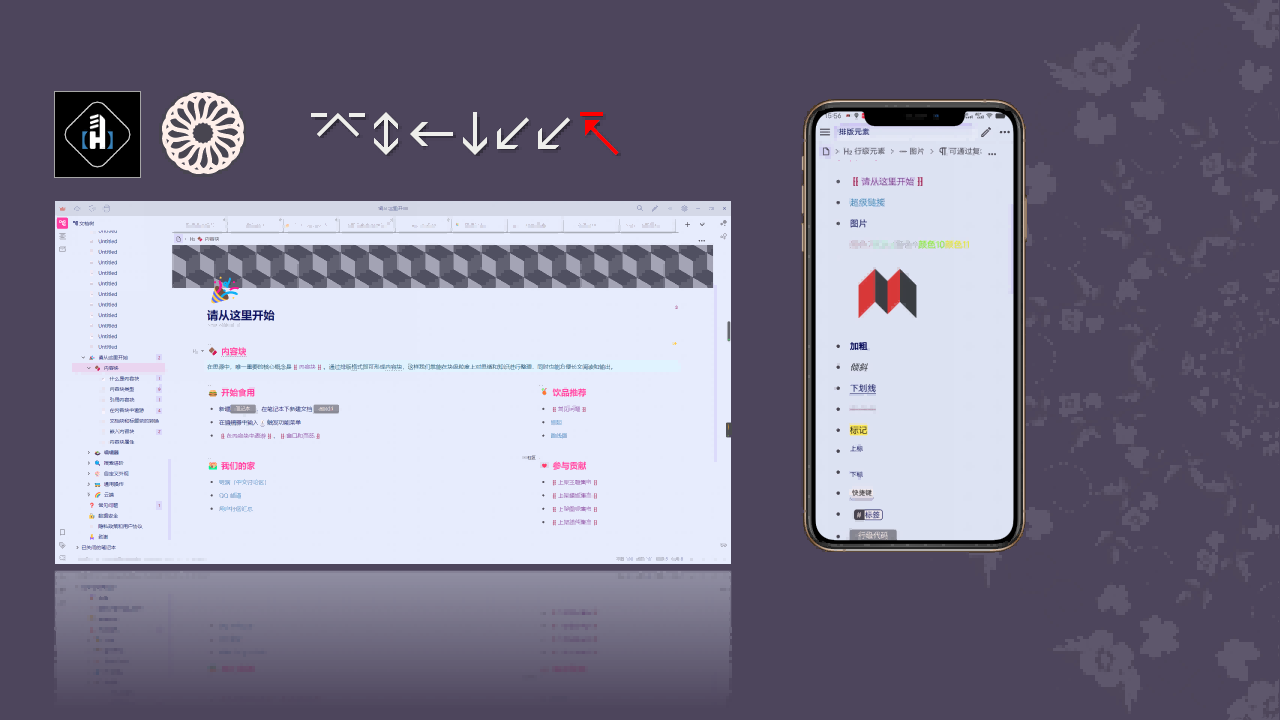
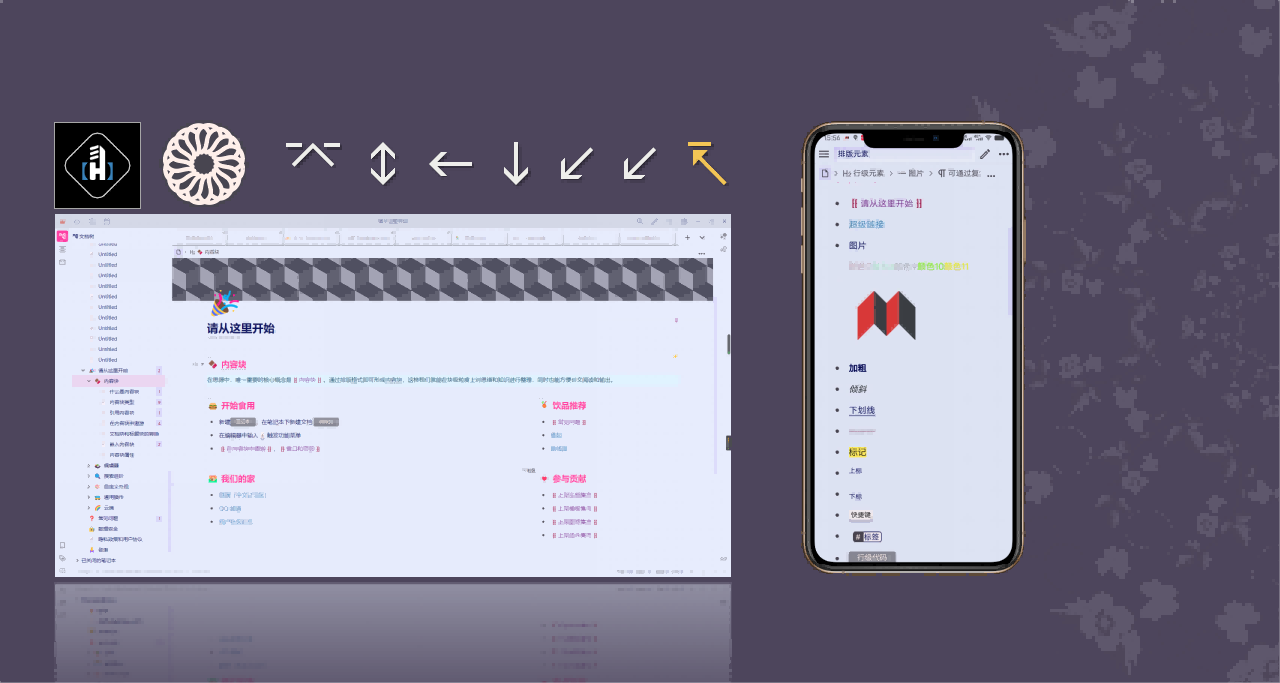
https://github.com/Hi-Windom/winsay/issues/52

diff --git a/style/MI-TabBar.css b/style/MI-TabBar.css
@@ -1,46 +1,21 @@
-/* --------------------------------------------------标签页 Tab--------------------------------------------- */
 /* 标签页底部背景颜色,标签页数量较少时可以看到，颜色和标签页颜色保持一致 */
 .layout-tab-bar.fn__flex,
 ul.fn__flex.layout-tab-bar {
     background-color: var(--SCC-Gray-HellisePotter);
 }
 
-
 /* 标签页鼠标悬浮时背景颜色 */
 .layout-tab-bar .item:not(.item--readonly):hover {
     background-color: var(--SCC-Blue-Windom_2-lighter);
-    padding-top: 4px;
 }
 
-.layout-tab-bar .item:not(.item--readonly) {
-    position: relative;
-    background-color: var(--SCC-Gray-HellisePotter);
-    flex: 1;
-    min-width: 1em;
-    border-radius: 0px !important;
-    box-shadow: none;
-    padding-top: 4px;
-    border-bottom: 3px solid transparent;
-}
-
-.layout-tab-bar li.item.item--readonly {
-    padding-top: 4px;
-    border-bottom: 3px solid transparent;
-}
-
-.item--readonly {
-    background-color: var(--SCC-Gray-HellisePotter);
-}
-
-.item--readonly:hover {
-    background-color: var(--SCC-Blue-Windom_2-lighter);
-}
 
 
 /* 标签页中文字的相关设置 */
 .layout-tab-bar .item .item__text {
     width: auto;
-    min-width: 5.8em;
+    min-width: 3em;
+    margin-right: 13px; /* 预留位置给钉住图标 */
     overflow: hidden !important;
     text-overflow: ellipsis !important;
     white-space: nowrap !important;
@@ -99,19 +74,23 @@ ul.layout-tab-bar li [title="新建文档"] svg:hover, ul.layout-tab-bar li [tit
 /* 非当前页签样式 */
 .layout-tab-bar li.item:not(:last-child).item:not(.item--focus), .layout-tab-bar li.item:last-child:not(.item--focus):not(.item--readonly) {
     box-shadow: rgba(0, 0, 0, 0.4) 0px 2px 4px, rgba(0, 0, 0, 0.3) 0px 7px 13px -3px, rgba(0, 0, 0, 0.2) 0px -3px 0px inset !important;
-    border-bottom: 3px hidden transparent !important;
-    max-width: 580px !important;
-    min-width: 158px !important;
+    border-bottom: 1px ridge transparent !important;
+    max-width: 186px !important;
+    min-width: 58px !important;
     transition-duration: 1.58s;
     font-weight: 520 !important;
 }
 /* 设置当前标签页样式 */
 .layout-tab-bar li.item--focus {
     box-shadow: rgba(0, 0, 0, 0.4) 0px 2px 4px, rgba(0, 0, 0, 0.3) 0px 3px 3px -3px, rgba(0, 0, 0, 0.2) 0px -3px 0px inset !important;
-    border-bottom: 3px ridge var(--b3-theme-primary) !important;
+    border-bottom: 1px ridge var(--b3-theme-primary) !important;
     max-width: 666px !important;
-    min-width: 186px !important;
+    min-width: 58px !important;
     transition-duration: 1.62s;
+}
+/* 钉住标签页优化排版 */
+li.item.item--pin {
+    margin-right: 5.8px !important;
 }
 
 /* 设置当前标签页文字样式 */
@@ -144,11 +123,13 @@ li.item.item--pin.item--focus:after {
     top: 0px;
     width: 12px;
     height: 12px;
+    background-color: transparent !important;
 }
 
-
+/* 标签页内文档名文本样式 */
 .layout-tab-bar .item--pin .item__text {
     display: block !important;
+    max-width: 666px !important;
 }
 
 /* 标签页上面的emoji */

diff --git a/README.md b/README.md
@@ -15,7 +15,9 @@ Windows 端效果
 
 ### 轻量化简洁风绛亽特色思源笔记主题
 
-外观部分重写部分样式，依据绛亽有关标准和约定俗成。原则上不添加额外功能，功能强大的 Sofill= 和 Sofill+ 主题 Coming Soon ...  [Sofill 系列主题对比](https://github.com/Hi-Windom/Sofill/wiki/Sofill-%E7%B3%BB%E5%88%97%E4%B8%BB%E9%A2%98%E5%A6%82%E4%BD%95%E9%80%89%E6%8B%A9)  |  [Sofill 系列主题时间线 ](https://github.com/Hi-Windom/Sofill/wiki/Sofill-%E7%B3%BB%E5%88%97%E5%AE%B6%E6%97%8F%E6%97%B6%E9%97%B4%E7%BA%BF)
+外观部分重写部分样式，依据绛亽有关标准和约定俗成。原则上不添加额外功能，功能强大的 Sofill= 和 Sofill+ 主题 Coming Soon ... 
+
+[Sofill 系列主题对比](https://github.com/Hi-Windom/Sofill/wiki/Sofill-%E7%B3%BB%E5%88%97%E4%B8%BB%E9%A2%98%E5%A6%82%E4%BD%95%E9%80%89%E6%8B%A9)  |  [Sofill 系列主题时间线 ](https://github.com/Hi-Windom/Sofill/wiki/Sofill-%E7%B3%BB%E5%88%97%E5%AE%B6%E6%97%8F%E6%97%B6%E9%97%B4%E7%BA%BF)
 
 Sofill- 主题根据 [绛亽标准色](https://github.com/Hi-Windom/Sofill/wiki/Sofill-%E7%B3%BB%E5%88%97%E4%B8%BB%E9%A2%98%E9%80%9A%E7%94%A8%E6%A0%87%E5%87%86%E8%89%B2) 设计
 
